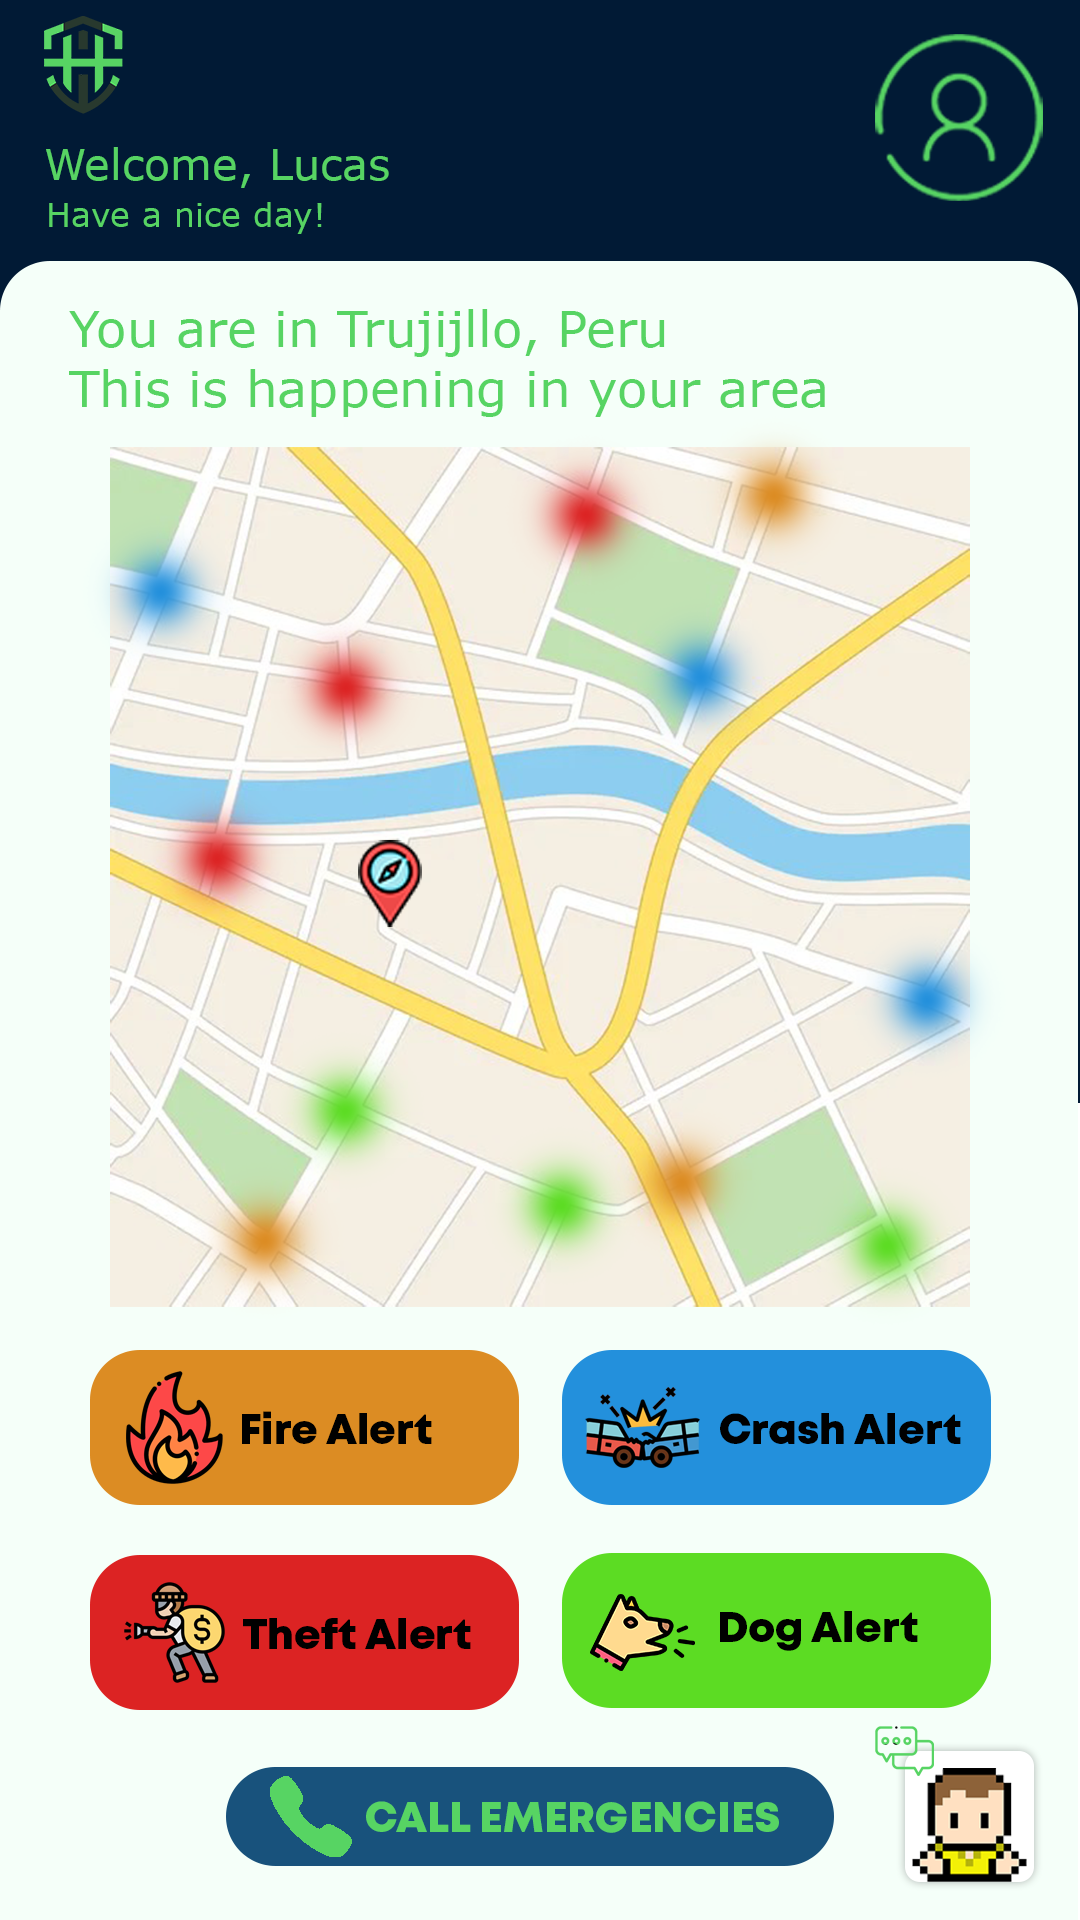
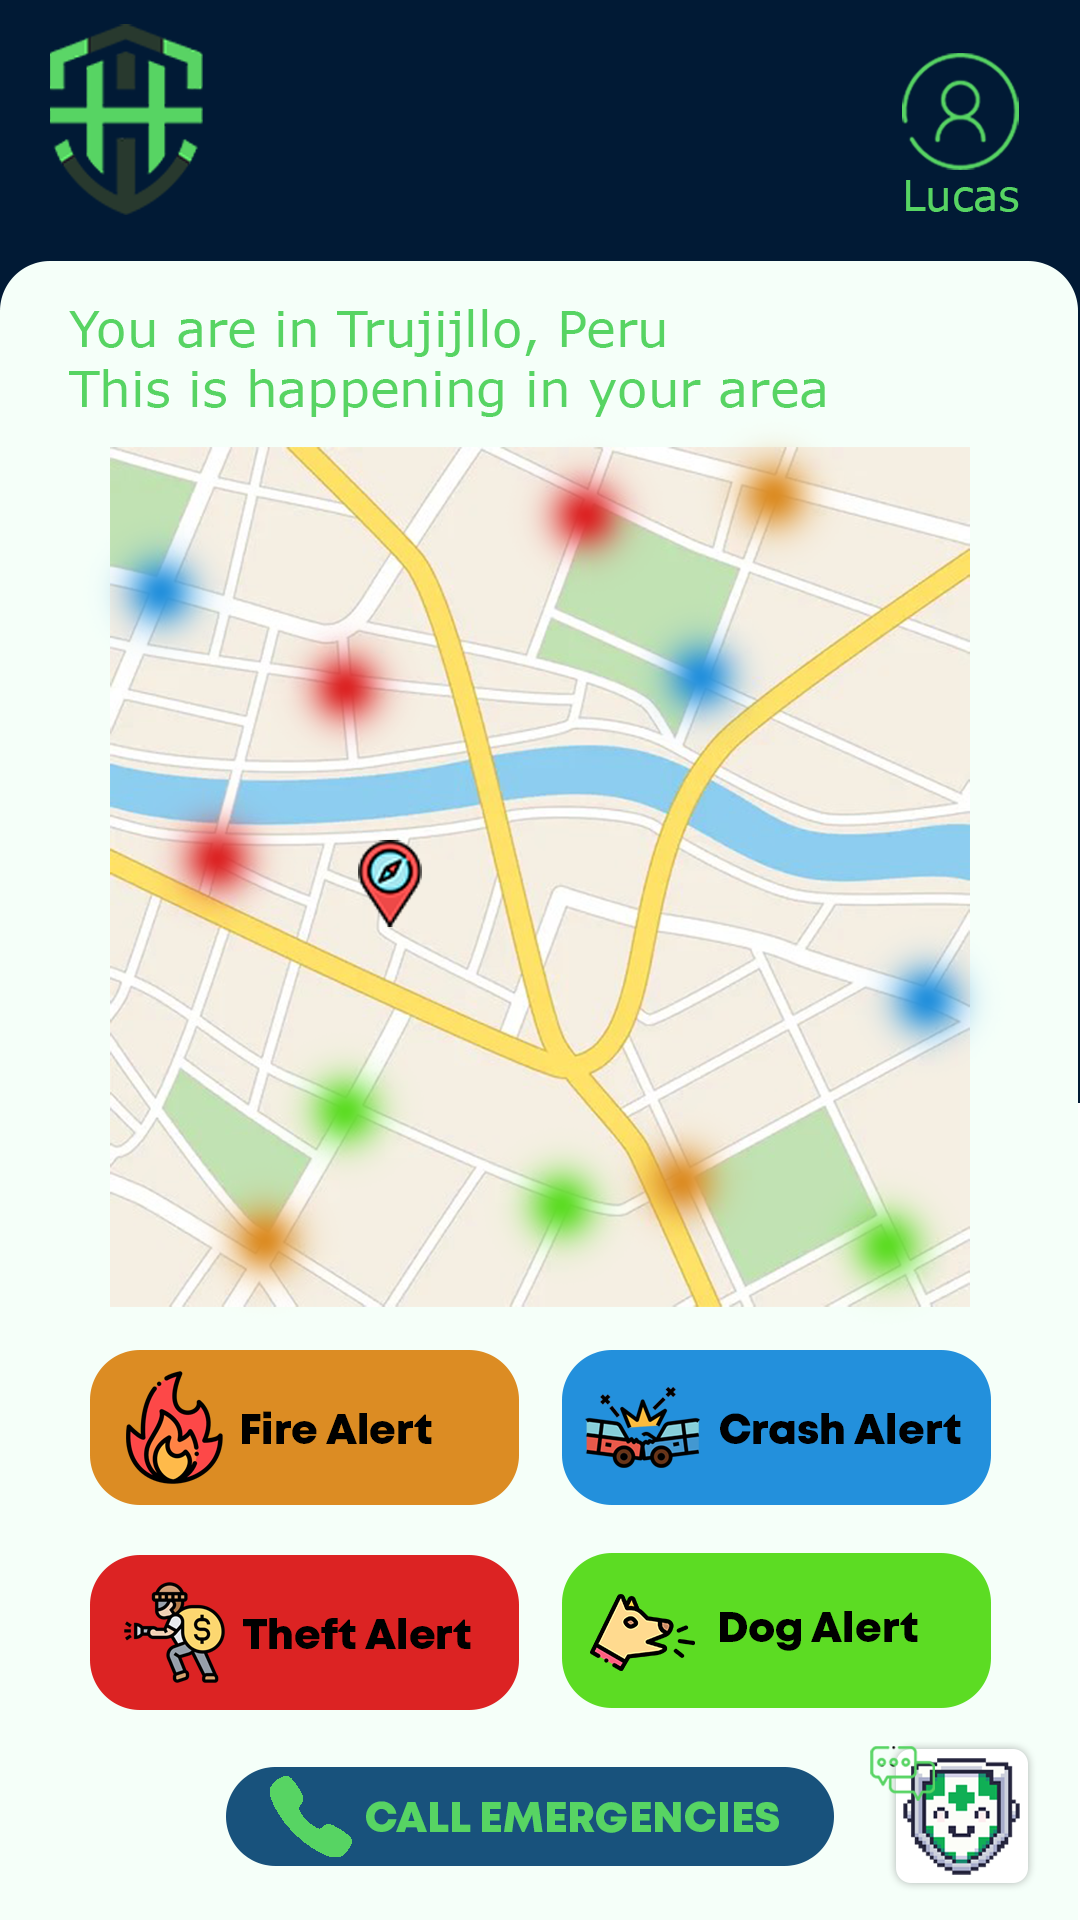
add: page stucture and firebase login

Changed region(s): [[0.0306, 0.0, 0.3667, 0.125], [0.7944, 0.0, 0.9778, 0.125], [0.7944, 0.9062, 0.9778, 1.0]]

diff --git a/lib/login.dart b/lib/login.dart
@@ -1,9 +1,8 @@
-// ignore_for_file: use_build_context_synchronously
-
 import 'package:flutter/material.dart';
 import 'package:firebase_auth/firebase_auth.dart';
 import 'package:google_sign_in/google_sign_in.dart';
 import 'signup.dart';
+import 'home.dart';
 
 class Login extends StatelessWidget {
   const Login({super.key});
@@ -12,25 +11,90 @@ class Login extends StatelessWidget {
     try {
       final GoogleSignInAccount? googleUser = await GoogleSignIn().signIn();
       if (googleUser == null) {
-        // The user canceled the sign-in
         return;
       }
 
       final GoogleSignInAuthentication googleAuth = await googleUser.authentication;
-
       final OAuthCredential credential = GoogleAuthProvider.credential(
         accessToken: googleAuth.accessToken,
         idToken: googleAuth.idToken,
       );
 
       await FirebaseAuth.instance.signInWithCredential(credential);
-
-      // Navigate to home screen or perform any other action after successful sign-in
     } catch (e) {
+      // ignore: use_build_context_synchronously
       ScaffoldMessenger.of(context).showSnackBar(
         SnackBar(content: Text('Failed to sign in with Google: $e')),
       );
     }
+  }
+
+  void _showForgotPasswordModal(BuildContext context) {
+    TextEditingController emailController = TextEditingController();
+
+    showDialog(
+      context: context,
+      builder: (BuildContext context) {
+        return AlertDialog(
+          backgroundColor: const Color(0xFF2164A1), 
+          title: const Text(
+            'Forgot Password',
+            style: TextStyle(color: Colors.green),
+          ),
+          content: Column(
+            mainAxisSize: MainAxisSize.min,
+            children: [
+              const Text(
+                'Enter your email to receive a password reset link:',
+                style: TextStyle(color: Colors.white),
+              ),
+              const SizedBox(height: 10),
+              TextField(
+                controller: emailController,
+                style: const TextStyle(color: Colors.white),
+                decoration: InputDecoration(
+                  hintText: 'Email',
+                  hintStyle: TextStyle(color: Colors.white.withOpacity(0.5)),
+                  enabledBorder: const UnderlineInputBorder(
+                    borderSide: BorderSide(color: Colors.green),
+                  ),
+                  focusedBorder: const UnderlineInputBorder(
+                    borderSide: BorderSide(color: Colors.green),
+                  ),
+                ),
+                cursorColor: Colors.green,
+              ),
+            ],
+          ),
+          actions: [
+            TextButton(
+              onPressed: () async {
+                try {
+                  await FirebaseAuth.instance.sendPasswordResetEmail(
+                    email: emailController.text.trim(),
+                  );
+                  // ignore: use_build_context_synchronously
+                  Navigator.of(context).pop();
+                  // ignore: use_build_context_synchronously
+                  ScaffoldMessenger.of(context).showSnackBar(
+                    const SnackBar(content: Text('Password reset email sent.')),
+                  );
+                } catch (e) {
+                  // ignore: use_build_context_synchronously
+                  ScaffoldMessenger.of(context).showSnackBar(
+                    SnackBar(content: Text('Error: $e')),
+                  );
+                }
+              },
+              child: const Text(
+                'SEND',
+                style: TextStyle(color: Colors.green),
+              ),
+            ),
+          ],
+        );
+      },
+    );
   }
 
   @override
@@ -72,7 +136,7 @@ class Login extends StatelessWidget {
                   const SizedBox(height: 40),
                   // Username field
                   const CustomTextField(
-                    hintText: 'Username',
+                    hintText: 'Email',
                     icon: Icons.person,
                   ),
                   const SizedBox(height: 20),
@@ -82,16 +146,33 @@ class Login extends StatelessWidget {
                     icon: Icons.lock,
                     obscureText: true,
                   ),
+                  const SizedBox(height: 10),
+                  // Forgot password
+                  Align(
+                    alignment: Alignment.centerRight,
+                    child: GestureDetector(
+                      onTap: () {
+                        _showForgotPasswordModal(context);
+                      },
+                      child: const Text(
+                        'Forgot Password?',
+                        style: TextStyle(color: Colors.green),
+                      ),
+                    ),
+                  ),
                   const SizedBox(height: 40),
                   // Sign In button
                   SizedBox(
                     width: double.infinity,
                     child: ElevatedButton(
                       onPressed: () {
-                        // Add your sign in logic here
+                        Navigator.push(
+                          context,
+                          MaterialPageRoute(builder: (context) => const Home()),
+                        );
                       },
                       style: ElevatedButton.styleFrom(
-                        backgroundColor: Colors.blue[800],
+                        backgroundColor: const Color(0xFF2164A1),
                         padding: const EdgeInsets.symmetric(vertical: 15),
                         shape: RoundedRectangleBorder(
                           borderRadius: BorderRadius.circular(30),
@@ -99,7 +180,11 @@ class Login extends StatelessWidget {
                       ),
                       child: const Text(
                         'SIGN IN',
-                        style: TextStyle(fontSize: 18, color: Colors.green),
+                        style: TextStyle(
+                          fontSize: 18,
+                          fontWeight: FontWeight.bold,
+                          color: Color(0xFF88ED8A),
+                        ),
                       ),
                     ),
                   ),

diff --git a/lib/home.dart b/lib/home.dart
@@ -1,0 +1,187 @@
+import 'package:flutter/material.dart';
+import 'package:google_maps_flutter/google_maps_flutter.dart';
+
+class Home extends StatelessWidget {
+  const Home({super.key});
+
+  @override
+  Widget build(BuildContext context) {
+    return Scaffold(
+      backgroundColor: const Color(0xFF001F3F),
+      body: SafeArea(
+        child: Column(
+          children: [
+            _buildHeader(),
+            Expanded(
+              child: Container(
+                margin: const EdgeInsets.all(16),
+                decoration: BoxDecoration(
+                  color: Colors.white,
+                  borderRadius: BorderRadius.circular(20),
+                ),
+                child: Column(
+                  children: [
+                    _buildLocationInfo(),
+                    Expanded(child: _buildMap()),
+                    _buildAlertButtons(),
+                    _buildBottomButtons(),
+                  ],
+                ),
+              ),
+            ),
+          ],
+        ),
+      ),
+    );
+  }
+
+  Widget _buildHeader() {
+    return Padding(
+      padding: const EdgeInsets.all(16),
+      child: Row(
+        mainAxisAlignment: MainAxisAlignment.spaceBetween,
+        children: [
+          Image.asset('assets/images/logo.png', height: 50),
+          const Row(
+            children: [
+              Icon(Icons.account_circle, color: Color(0xFF00FF00), size: 30),
+              SizedBox(width: 8),
+              Text('Lucas', style: TextStyle(color: Color(0xFF00FF00), fontSize: 18)),
+            ],
+          ),
+        ],
+      ),
+    );
+  }
+
+  Widget _buildLocationInfo() {
+    return const Padding(
+      padding: EdgeInsets.all(16),
+      child: Column(
+        crossAxisAlignment: CrossAxisAlignment.start,
+        children: [
+          Text(
+            'You are in Trujillo, Peru',
+            style: TextStyle(fontSize: 24, fontWeight: FontWeight.bold, color: Color(0xFF00FF00)),
+          ),
+          Text(
+            'This is happening in your area',
+            style: TextStyle(fontSize: 18, color: Color(0xFF00FF00)),
+          ),
+        ],
+      ),
+    );
+  }
+
+  Widget _buildMap() {
+    return SizedBox(
+      height: 300,
+      child: GoogleMap(
+        initialCameraPosition: const CameraPosition(
+          target: LatLng(-8.1116, -79.0289), // Coordinates for Trujillo, Peru
+          zoom: 13,
+        ),
+        markers: {
+          Marker(
+            markerId: const MarkerId('user_location'),
+            position: const LatLng(-8.1116, -79.0289),
+            icon: BitmapDescriptor.defaultMarkerWithHue(BitmapDescriptor.hueAzure),
+          ),
+        },
+      ),
+    );
+  }
+
+  Widget _buildAlertButtons() {
+    return Padding(
+      padding: const EdgeInsets.symmetric(horizontal: 16, vertical: 8),
+      child: Column(
+        children: [
+          Row(
+            children: [
+              Expanded(child: _buildAlertButton('Fire Alert', Colors.orange, 'assets/images/fire.png')),
+              const SizedBox(width: 8),
+              Expanded(child: _buildAlertButton('Crash Alert', Colors.blue, 'assets/images/car.png')),
+            ],
+          ),
+          const SizedBox(height: 8),
+          Row(
+            children: [
+              Expanded(child: _buildAlertButton('Theft Alert', Colors.red, 'assets/images/theft.png')),
+              const SizedBox(width: 8),
+              Expanded(child: _buildAlertButton('Dog Alert', Colors.green, 'assets/images/dog.png')),
+            ],
+          ),
+        ],
+      ),
+    );
+  }
+
+  Widget _buildAlertButton(String text, Color color, String iconPath) {
+    return ElevatedButton(
+      onPressed: () {},
+      style: ElevatedButton.styleFrom(
+        backgroundColor: color,
+        shape: RoundedRectangleBorder(borderRadius: BorderRadius.circular(30)),
+        padding: const EdgeInsets.symmetric(vertical: 12),
+      ),
+      child: Row(
+        mainAxisAlignment: MainAxisAlignment.center,
+        children: [
+          Image.asset(iconPath, height: 24, width: 24),
+          const SizedBox(width: 8),
+          Text(text, style: const TextStyle(color: Colors.white)),
+        ],
+      ),
+    );
+  }
+
+  Widget _buildBottomButtons() {
+    return Padding(
+      padding: const EdgeInsets.all(16),
+      child: Row(
+        children: [
+          Expanded(
+            child: ElevatedButton.icon(
+              onPressed: () {},
+              icon: const Icon(Icons.phone, color: Colors.white),
+              label: const Text('CALL EMERGENCIES', style: TextStyle(color: Colors.white)),
+              style: ElevatedButton.styleFrom(
+                backgroundColor: const Color(0xFF1E3A8A),
+                shape: RoundedRectangleBorder(borderRadius: BorderRadius.circular(30)),
+                padding: const EdgeInsets.symmetric(vertical: 16),
+              ),
+            ),
+          ),
+          const SizedBox(width: 16),
+          Stack(
+            alignment: Alignment.topLeft,
+            children: [
+              ElevatedButton(
+                onPressed: () {},
+                style: ElevatedButton.styleFrom(
+                  backgroundColor: Colors.white,
+                  shape: const CircleBorder(),
+                  padding: const EdgeInsets.all(8),
+                ),
+                child: Image.asset('assets/images/bot.png', height: 40, width: 40),
+              ),
+              Positioned(
+                top: -5,
+                left: -5,
+                child: Container(
+                  padding: const EdgeInsets.all(4),
+                  decoration: const BoxDecoration(
+                    color: Colors.white,
+                    shape: BoxShape.circle,
+                  ),
+                  child: const Icon(Icons.chat, size: 20, color: Color(0xFF00FF00)),
+                ),
+              ),
+            ],
+          ),
+        ],
+      ),
+    );
+  }
+}
